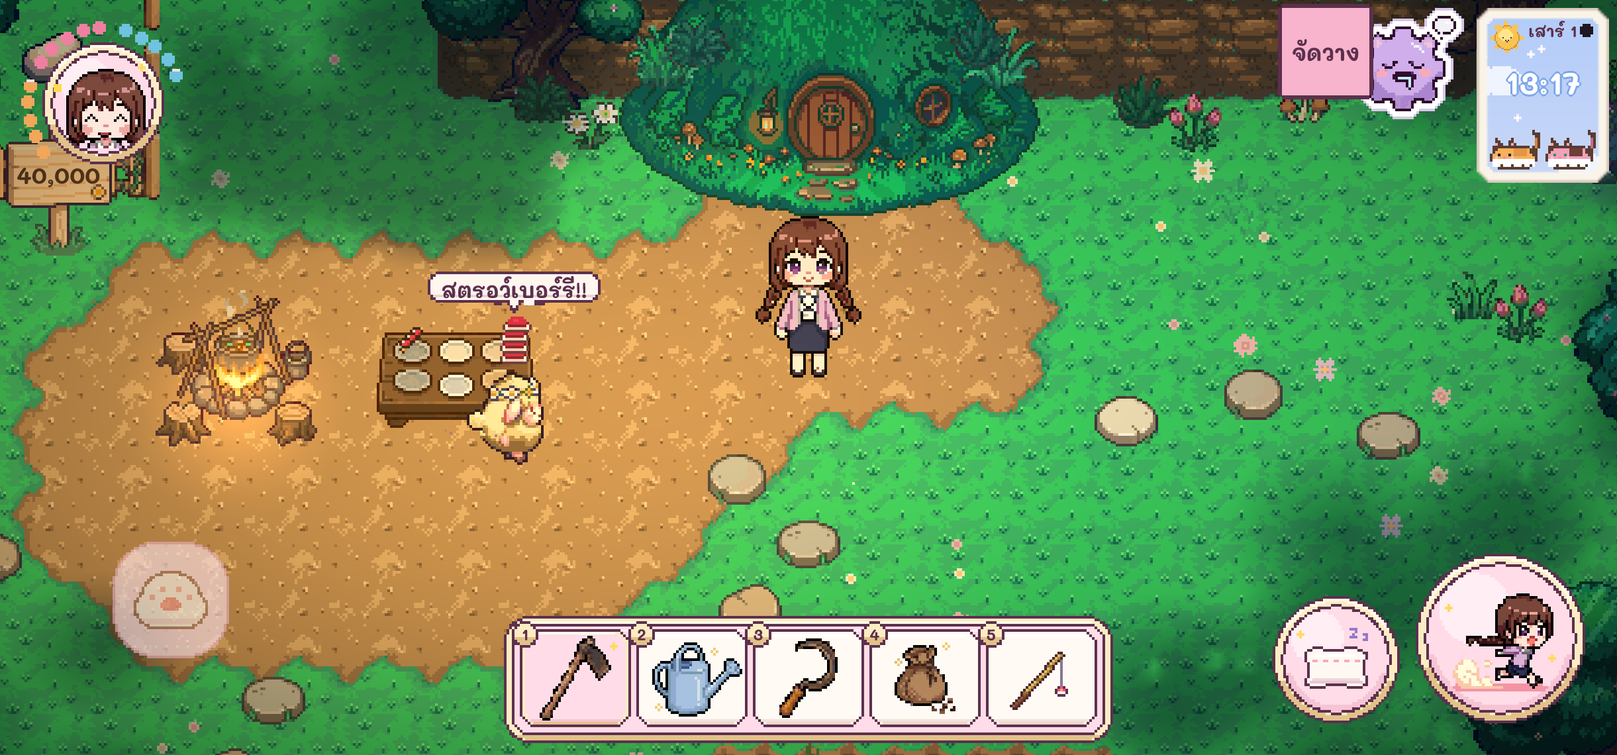
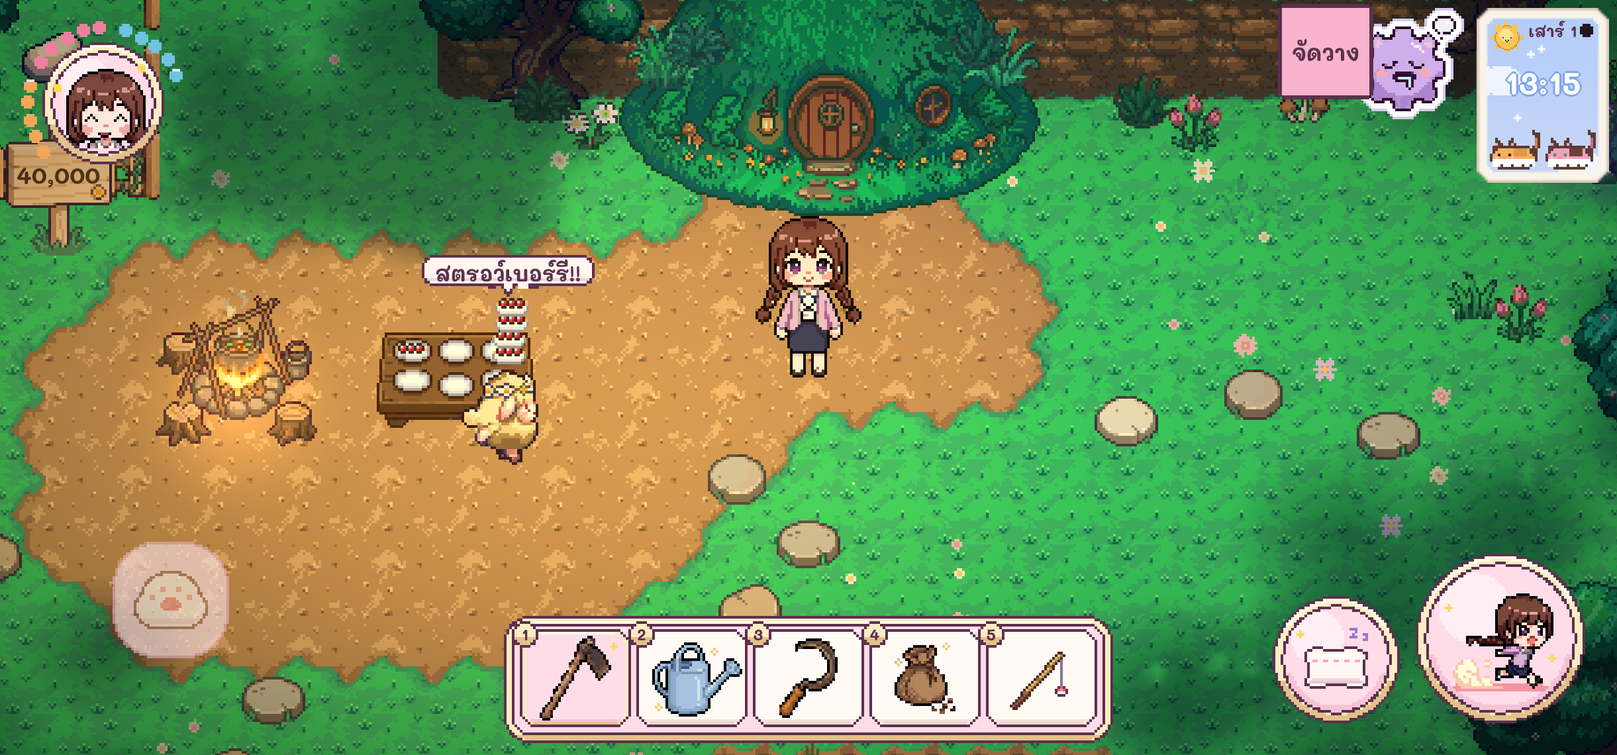
จาน D1 ขาวขอบเทาฟ้าทั้งถาดและหอคอย หอคอยใช้ภาพอาหารจิ๋วบนจาน D1 ยังโยกเบา ๆ ถังหูลู่จิ๋ววางนอน (ผู้ใช้เลือก)
- ถาดในฉากใช้ไฟล์ D1 ที่ลงสีหยกมาแล้ว ปิด jade_tone ไม่ลงซ้ำ
- หอคอย: ฐานอาหารสูงจากขอบล่างจาน 3 พิกเซล จานถัดไปซ้อนบนยอดอาหาร 1 พิกเซล ชั้นสูงตามภาพอาหาร
- ไอคอนถาดในร้านกับปุ่มวางอาหารเป็นจาน D1
- แทนการเปลี่ยนเป็นจานบางวาดด้วยโค้ด (bad78f2)

diff --git a/src/entities/Monster.ts b/src/entities/Monster.ts
@@ -3,18 +3,19 @@ import { footY } from '../core/assets';
 import { direction4From } from '../core/movement';
 import type { Rng } from '../core/rng';
 import balance from '../data/balance.json';
-import { eyeLevel, miniPlateKey, moteKey, prepareMonsterArt, sheetKey, DIRECTIONS, type Facing, type MonsterArt, type SheetKind } from '../scenes/monsterArt';
+import { artTopPx, eyeLevel, moteKey, prepareMonsterArt, sheetKey, DIRECTIONS, type Facing, type MonsterArt, type SheetKind } from '../scenes/monsterArt';
 
 type Point = { x: number; y: number };
 
 const ARRIVE_PX = 1.5;
 const FX_DEPTH_LIFT = 100;
 /**
- * หอคอยอาหารเหนือหัว: จานขาวบาง ๆ กับกองอาหารเล็ก ชั้นละ 4 พิกเซล โยกไปมา
- * ผู้ใช้เลือกแบบจานบางเดิม (6 พ.ย. 2026) แทนภาพอาหารจิ๋วที่ซ้อนแล้วดูแข็ง · ภาพอาหารจิ๋วใช้บนจานถาดเท่านั้น
+ * หอคอยอาหารเหนือหัว: จานขาวขอบเทาฟ้า D1 (`tower_plate` 13×6) กับภาพอาหารจิ๋ว โยกไปมาเบา ๆ (ผู้ใช้เลือก 6 พ.ย. 2026)
+ * ฐานอาหารสูงจากขอบล่างจาน 3 พิกเซล (อยู่ในขอบจาน) จานถัดไปวางบนยอดอาหารซ้อนกัน 1 พิกเซล ชั้นสูงตามภาพอาหารแต่ละชิ้น
  */
-const TOWER_STEP_PX = 4;
+const TOWER_PLATE = 'tower_plate';
 const TOWER_FOOD_LIFT = 3;
+const TOWER_OVERLAP_PX = 1;
 const TOWER_GAP_PX = 2;
 /** ฟองความคิด: มุมซ้ายของฟองห่างกลางตัวเท่านี้ จุดลากซ้ายล่างอยู่เหนือหัว ไอคอนอาหารกลางที่ (13, 13) ของฟอง */
 const THOUGHT_LEFT_PX = -3;
@@ -61,7 +62,8 @@ export class Monster {
   private level: number | 'sweet';
   private percent: number;
   private eatingNow = false;
-  private tower: { plate: Phaser.GameObjects.Image; food: Phaser.GameObjects.Image }[] = [];
+  /** `top` คือแถวโปร่งด้านบนของภาพอาหาร จานถัดไปจึงวางบนพิกเซลที่เห็นจริง */
+  private tower: { plate: Phaser.GameObjects.Image; food: Phaser.GameObjects.Image; top: number }[] = [];
   private fx: Phaser.GameObjects.GameObject[] = [];
   private shake: { step: number; ms: number } | null = null;
   /** ฟองความคิด "อยากกิน" (ฟองกับไอคอนอาหาร) ตามหัวไปจนหมดเวลา */
@@ -161,10 +163,11 @@ export class Monster {
 
   /** วางอาหารบนหอคอยเหนือหัว ชั้นละ 1 ที่ */
   addToTower(foodKey: string, count: number): void {
+    const top = artTopPx(this.scene, foodKey);
     for (let serving = 0; serving < count; serving += 1) {
-      const plate = this.scene.add.image(0, 0, miniPlateKey(this.scene)).setOrigin(0.5, 1);
-      const food = this.scene.add.image(0, 0, foodKey).setOrigin(0.5, 1);
-      this.tower.push({ plate, food });
+      const plate = this.scene.add.image(0, 0, TOWER_PLATE).setOrigin(0.5, 1).setName('tower_layer');
+      const food = this.scene.add.image(0, 0, foodKey).setOrigin(0.5, 1).setName('tower_layer');
+      this.tower.push({ plate, food, top });
     }
     this.sync(this.scene.time.now);
   }
@@ -363,13 +366,17 @@ export class Monster {
     const y = Math.round(this.position.y);
     this.sprite.setPosition(x, y).setDepth(y);
     const base = y - this.art.height - TOWER_GAP_PX;
+    let plateY = base;
+    let topY = base;
     this.tower.forEach((layer, index) => {
       const wobble = Math.max(-TOWER_WOBBLE_MAX, Math.min(TOWER_WOBBLE_MAX, Math.round(Math.sin(time / TOWER_WOBBLE_MS + index * 0.9) * index * 0.5)));
-      const plateY = base - index * TOWER_STEP_PX;
+      const foodY = plateY - TOWER_FOOD_LIFT;
       layer.plate.setPosition(x + wobble, plateY).setDepth(y + 1 + index * 0.01);
-      layer.food.setPosition(x + wobble, plateY - TOWER_FOOD_LIFT + 1).setDepth(y + 1.005 + index * 0.01);
+      layer.food.setPosition(x + wobble, foodY).setDepth(y + 1.005 + index * 0.01);
+      topY = Math.min(plateY - layer.plate.height, foodY - layer.food.height + layer.top);
+      plateY = foodY - layer.food.height + layer.top + TOWER_OVERLAP_PX;
     });
-    this.towerHeight = this.tower.length > 0 ? this.tower.length * TOWER_STEP_PX + TOWER_FOOD_LIFT : 0;
+    this.towerHeight = base - topY;
     this.syncThought(x, time);
   }
 

diff --git a/src/scenes/monsterArt.ts b/src/scenes/monsterArt.ts
@@ -12,7 +12,6 @@ const { eyeSteps } = balance.monsters;
 /** สีเนื้ออาหารจิ๋วบนจาน คิดจากสีที่สดที่สุดของไอคอนอาหาร (ข้ามพิกเซลสีขาวเทาของจานใบตอง) */
 const DULL_SPREAD = 40;
 const MOUND = { width: 9, height: 4 };
-const PLATE = { width: 11, height: 4 };
 
 const hex = (value: string): [number, number, number] => [1, 3, 5].map((at) => Number.parseInt(value.slice(at, at + 2), 16)) as [number, number, number];
 
@@ -129,8 +128,8 @@ const shade = (color: [number, number, number], amount: number): string =>
   `rgb(${color.map((channel) => Math.max(0, Math.min(255, Math.round(channel * amount)))).join(',')})`;
 
 /**
- * อาหารจิ๋ววาดด้วยโค้ด (ยังไม่มีภาพอาหารเล็กพอวางบนจานถาด) กองสีตามไอคอนอาหาร มีขอบเข้มและไฮไลต์
- * ใช้ทั้งบนจานถาดและหอคอยอาหารที่มอนสเตอร์ถือ
+ * อาหารจิ๋ววาดด้วยโค้ด กองสีตามไอคอนอาหาร มีขอบเข้มและไฮไลต์
+ * ใช้แทนเมนูที่ยังไม่มีภาพ tray_mini (ตอนนี้คือน้ำสตรอว์เบอร์รี) ทั้งบนจานถาดและหอคอย
  */
 export function foodMoundKey(scene: Phaser.Scene, recipe: string, icon: string | undefined): string {
   const key = `tray_food_${recipe}`;
@@ -165,25 +164,17 @@ export function foodArtKey(scene: Phaser.Scene, recipe: string, icon: string | u
   return scene.textures.exists(art) ? art : foodMoundKey(scene, recipe, icon);
 }
 
-/** จานขาวเล็กใต้อาหารแต่ละชั้นของหอคอย */
-export function miniPlateKey(scene: Phaser.Scene): string {
-  const key = 'tower_plate';
-  if (scene.textures.exists(key)) return key;
-  const canvas = document.createElement('canvas');
-  canvas.width = PLATE.width;
-  canvas.height = PLATE.height;
-  const context = canvas.getContext('2d')!;
-  context.fillStyle = '#5c304c';
-  context.fillRect(1, 0, 9, 1);
-  context.fillRect(0, 1, 1, 2);
-  context.fillRect(10, 1, 1, 2);
-  context.fillRect(1, 3, 9, 1);
-  context.fillStyle = '#fff6f0';
-  context.fillRect(1, 1, 9, 2);
-  context.fillStyle = '#d9c8d0';
-  context.fillRect(2, 2, 7, 1);
-  scene.textures.addCanvas(key, canvas);
-  return key;
+const topRows = new Map<string, number>();
+
+/** จำนวนแถวโปร่งด้านบนของภาพ (ภาพอาหารจิ๋วบางชิ้นเว้นแถวบนไว้ 1 แถว) ใช้วางจานชั้นถัดไปของหอคอยบนพิกเซลที่เห็นจริง */
+export function artTopPx(scene: Phaser.Scene, key: string): number {
+  const known = topRows.get(key);
+  if (known !== undefined) return known;
+  const { data, width, height } = pixels(scene, key);
+  let top = 0;
+  while (top < height - 1 && !Array.from({ length: width }, (_, x) => data[(top * width + x) * 4 + 3]!).some((alpha) => alpha > 0)) top += 1;
+  topRows.set(key, top);
+  return top;
 }
 
 /** ละอองหิวสีม่วงหม่น 1×1 กับ 2×2 พิกเซล ลอยขึ้นรอบตัวตอนยังหิว จางลงเมื่อชอบมากขึ้น */

diff --git a/src/scenes/visits.ts b/src/scenes/visits.ts
@@ -26,7 +26,7 @@ import {
   type Reaction,
 } from '../systems/monsters';
 import { servingsOnTray } from '../systems/tray';
-import { foodMoundKey, type MonsterArt } from './monsterArt';
+import { foodArtKey, type MonsterArt } from './monsterArt';
 import type { TrayView } from './trayView';
 
 type Point = { x: number; y: number };
@@ -331,8 +331,8 @@ export class Visits {
       gameState.setWorld(result.world);
       if (result.taken === 0) continue;
       const recipe = parseDish(take.item).recipe;
-      // หอคอยใช้กองอาหารเล็กบนจานบางแบบเดิม (ผู้ใช้เลือก 6 พ.ย. 2026) ภาพอาหารจิ๋วใช้บนจานถาด
-      monster.addToTower(foodMoundKey(this.scene, recipe, recipes[recipe]?.icon), result.taken);
+      // หอคอยใช้ภาพอาหารจิ๋ววางบนจาน D1 (ผู้ใช้เลือก 6 พ.ย. 2026 14:18)
+      monster.addToTower(foodArtKey(this.scene, recipe, recipes[recipe]?.icon), result.taken);
       monster.hearts(take.reaction === 'neutral' ? 0 : 1);
       if (take.reaction === 'favourite' || take.reaction === 'signature') monster.sparkles();
       if (take.reaction === 'favourite') this.say(run, 'favourite', true);

diff --git a/tests/unit/data.test.ts b/tests/unit/data.test.ts
@@ -24,11 +24,16 @@ describe('project data', () => {
       readFileSync(join(projectRoot, 'assets-src/art_2026-11-01/registry_additions.json'), 'utf8'),
     ) as { name: string; file: string; jade_tone: boolean; currency?: string }[];
     expect(additions).toHaveLength(250);
+    // ถาดจาน D1 แทนถาดชุด 1 พ.ย. (ผู้ใช้เลือก 6 พ.ย. 2026) ลงสีหยกมาแล้วในไฟล์
+    const replaced: Record<string, { file: string; jade_tone: boolean }> = Object.fromEntries(
+      [3, 6, 10].map((size) => [`food_tray_${size}`, { file: `assets-src/art_2026-11-06/yard/food_tray_${size}_d1.png`, jade_tone: false }]),
+    );
     for (const addition of additions) {
       const entry = registry[addition.name];
       if (entry?.type !== 'local' && entry?.type !== 'local_tileset') throw new Error(`${addition.name} is missing`);
-      expect(entry.source).toBe(addition.file);
-      expect(entry.jade_tone).toBe(addition.jade_tone);
+      const expected = replaced[addition.name] ?? addition;
+      expect(entry.source).toBe(expected.file);
+      expect(entry.jade_tone).toBe(expected.jade_tone);
       if (entry.type === 'local') expect(entry.currency).toBe(addition.currency);
     }
   });

diff --git a/tests/e2e/m7.spec.ts b/tests/e2e/m7.spec.ts
@@ -102,6 +102,13 @@ test('Puinun (warm, 50%) comes out of the burrow, takes a favourite tower, eats 
   await shot(page, '03_puinun_out');
   // หยิบเมนูโปรดเป็นหอคอย 3–5 ที่ ไม่แตะปลาย่าง (ไม่ชอบ) รวมไม่เกิน 5 ที่
   await expect.poll(async () => (await world(page)).tray.plates[1]?.count ?? 0, { timeout: 60_000 }).toBeLessThan(6);
+  // หอคอยเหนือหัวใช้จาน D1 กับภาพถังหูลู่จิ๋ว (ผู้ใช้เลือก 6 พ.ย. 2026 14:18)
+  const towerKeys = await page.evaluate(() =>
+    ((window as unknown as Win).__game.scene.getScene('Base') as { children: { list: { name: string; texture?: { key: string } }[] } }).children.list
+      .filter((child) => child.name === 'tower_layer')
+      .map((child) => child.texture?.key),
+  );
+  expect(new Set(towerKeys)).toEqual(new Set(['tower_plate', 'tray_mini_strawberry_skewer']));
   await expect.poll(async () => (await world(page)).monsters.arrivals[0]?.done).toBe(true);
   await page.waitForTimeout(2500);
   await shot(page, '04_tower');

diff --git a/art-src/m7a_ui_1106/plates_d1/scripts/trayplates.py b/art-src/m7a_ui_1106/plates_d1/scripts/trayplates.py
@@ -1,0 +1,68 @@
+"""Plates on the world food trays -> uniform D1 blue-grey plates (her pick). 0 credits."""
+from PIL import Image
+import os
+D=os.path.dirname(os.path.abspath(__file__))
+def lum(p): return 0.299*p[0]+0.587*p[1]+0.114*p[2]
+def is_plate(p):
+    r,g,b=p[:3]; return p[3] and max(r,g,b)-min(r,g,b)<62 and lum(p)>118
+def comps(im):
+    px=im.load(); S={(x,y) for y in range(im.height) for x in range(im.width) if is_plate(px[x,y])}; out=[]
+    while S:
+        p=S.pop(); st=[p]; c={p}
+        while st:
+            x,y=st.pop()
+            for q in ((x+1,y),(x-1,y),(x,y+1),(x,y-1)):
+                if q in S: S.remove(q); st.append(q); c.add(q)
+        if len(c)>=20: out.append(c)
+    return out
+EDGE=(150,160,190); RIM=(214,222,236); TOP=(255,255,255); SH=(236,240,248)
+def flood(im,seed):
+    px=im.load(); c=set(); st=[seed]
+    while st:
+        x,y=st.pop()
+        if (x,y) in c or not(0<=x<im.width and 0<=y<im.height): continue
+        p=px[x,y]
+        if not p[3] or lum(p)<110: continue
+        c.add((x,y)); st+= [(x+1,y),(x-1,y),(x,y+1),(x,y-1)]
+        if len(c)>200: return None
+    # fill single-pixel holes (dark specks) row by row
+    rows={}
+    for x,y in c: rows.setdefault(y,[]).append(x)
+    for y,xs in rows.items():
+        for x in range(min(xs),max(xs)+1): c.add((x,y))
+    return c
+def plates(im):
+    cs=comps(im); seeds=[(round(sum(x for x,y in c)/len(c)),round(sum(y for x,y in c)/len(c))) for c in cs]
+    if im.size==(60,36):   # 6-slot tray: the tan bottom-right plate is too saturated for the colour test
+        xs=sorted({sx for sx,sy in seeds}); ys=sorted({sy for sx,sy in seeds})
+        tr=max(seeds,key=lambda s:(s[0],-s[1])); bm=max(seeds,key=lambda s:(s[1],-abs(s[0]-30)))
+        seeds.append((tr[0],bm[1]))
+    out=[]
+    for i,sd in enumerate(seeds):
+        f=flood(im,sd)
+        if f is None and i<len(cs):           # light tray (3-slot): flood leaks, keep the colour-test plate + fill specks
+            f=set(cs[i]); rows={}
+            for x,y in f: rows.setdefault(y,[]).append(x)
+            for y,xs in rows.items():
+                for x in range(min(xs),max(xs)+1): f.add((x,y))
+        if f and all(len(f & o)==0 for o in out): out.append(f)
+    return out
+def recolor(im):
+    im=im.copy(); px=im.load()
+    for c in plates(im):
+        ys=[y for x,y in c]; cy=(min(ys)+max(ys))/2
+        def depth(x,y):
+            d=0
+            while all((x+dx,y+dy) in c for dx in range(-d-1,d+2) for dy in range(-d-1,d+2) if abs(dx)==d+1 or abs(dy)==d+1): d+=1
+            return d
+        for (x,y) in c:
+            d=0 if any(q not in c for q in ((x+1,y),(x-1,y),(x,y+1),(x,y-1))) else (1 if any(q not in c for q in ((x+2,y),(x-2,y),(x,y+2),(x,y-2))) else 2)
+            col=EDGE if d==0 else RIM if d==1 else (SH if y>cy+0.5 else TOP)
+            px[x,y]=col+(255,)
+    return im
+if __name__=='__main__':
+    os.makedirs(f'{D}/trays_d1',exist_ok=True)
+    for n in (3,6,10):
+        src=Image.open(f'{D}/src/public/assets/world/yard/food_tray_{n}.png').convert('RGBA')
+        print(n,[len(c) for c in comps(src)])
+        recolor(src).save(f'{D}/trays_d1/food_tray_{n}.png')

diff --git a/art-src/m7a_ui_1106/plates_d1/scripts/tower6.py b/art-src/m7a_ui_1106/plates_d1/scripts/tower6.py
@@ -1,0 +1,34 @@
+"""Plates like her Kairosoft ref: wide round plate seen at an angle, food sits inside the rim. 0 credits."""
+from PIL import Image, ImageDraw, ImageFont
+import os, sys
+sys.path.insert(0,os.path.dirname(os.path.abspath(__file__)))
+from tower2 import grid, pu, D
+SHAPE=["...bbbbbbb...",".bbWWWWWWWbb.","bWWWWWWWWWWWb",".bssWWWWWssb.","..bbsssssbb..","....bbbbb...."]
+SHAPE=["..bbbbbbbbb..",".bWWWWWWWWWb.","bWWWWWWWWWWWb","bsWWWWWWWWWsb",".bsssssssssb.","..bbbbbbbbb.."]
+def plate(edge, shade=(214,222,236), top=(255,255,255)):
+    return grid(SHAPE,{'b':edge,'W':top,'s':shade})
+def tower(pl, food, n, sway=False, sink=3):
+    W,H=26,90; im=Image.new('RGBA',(W,H)); y=H
+    for i in range(n):
+        dx=(0,1,0,-1)[i%4] if sway else 0; cx=W//2+dx
+        im.alpha_composite(pl,(cx-pl.width//2,y-pl.height))
+        base=y-pl.height+sink+1          # food bottom rests inside the rim
+        im.alpha_composite(food,(cx-food.width//2,base-food.height))
+        y=min(base-food.height+2, y-pl.height+1)   # next plate sits on the food top
+    return im
+V={'D1 แบบในรูป (ขอบเทาฟ้า)':plate((132,142,176)),
+   'D2 ทรงเดียวกัน ขอบน้ำตาลเข้ม':plate((96,58,40),(236,214,196),(255,250,244)),
+   'D3 ขอบน้ำตาลกลาง':plate((140,92,60),(236,214,196),(255,250,244))}
+foods=[Image.open(f'{D}/tang_flat4.png'),Image.open(f'{D}/mini9_final/home_kaprao.png'),Image.open(f'{D}/mini9_final/caramel_pudding.png')]
+sc=Image.new('RGBA',(len(V)*150,112),(214,170,110,255))
+for i,(lab,pl) in enumerate(V.items()):
+    pl.save(f'{D}/tower_plate_{lab[:2]}.png')
+    for j,f in enumerate(foods):
+        x0=i*150+j*48; sc.alpha_composite(pu,(x0+3,70)); t=tower(pl,f,4); sc.alpha_composite(t,(x0+10,70-90+8))
+K=3; big=sc.resize((sc.width*K,sc.height*K),Image.NEAREST)
+F=ImageFont.truetype('/mnt/user-data/uploads/help-tower-game/public/assets/fonts/Mali-Bold.ttf',20)
+out=Image.new('RGBA',(big.width,big.height+110),(255,238,244,255)); d=ImageDraw.Draw(out)
+for i,l in enumerate(V): d.text((i*150*K+8,8),l,font=F,fill=(92,48,76))
+out.alpha_composite(big,(0,40))
+for i,(l,pl) in enumerate(V.items()): out.alpha_composite(pl.resize((pl.width*8,pl.height*8),Image.NEAREST),(i*150*K+150,big.height+50))
+out.convert('RGB').save(f'{D}/tower_ref_plates.png')

diff --git a/art-src/m7a_ui_1106/plates_d1/scripts/tang2.py b/art-src/m7a_ui_1106/plates_d1/scripts/tang2.py
@@ -1,0 +1,37 @@
+"""Tanghulu lying flat on the plate (stacks nicely in the tower). 0 credits."""
+from PIL import Image, ImageDraw, ImageFont
+import os, sys
+sys.path.insert(0,os.path.dirname(os.path.abspath(__file__)))
+from tower2 import tower, pu, D
+from tower3 import V
+O=(46,28,24); R=(220,56,76); r=(168,30,58); H=(255,214,214); S=(222,176,112)
+def flat(n=3, size=4):
+    BALL=[".OO.","OHRO","ORrO",".OO."] if size==4 else [".OOO.","OHRRO","ORRrO","OrrrO",".OOO."]
+    bw=len(BALL[0]); step=bw-1; w=step*n+1+2; h=len(BALL)
+    im=Image.new('RGBA',(w,h)); px=im.load()
+    my=h//2
+    px[0,my]=S+(255,); px[w-1,my]=S+(255,)
+    for i in range(n):
+        bx=1+i*step
+        for yy,row in enumerate(BALL):
+            for xx,c in enumerate(row):
+                if c!='.': px[bx+xx,yy]={'O':O,'H':H,'R':R,'r':r}[c]+(255,)
+    return im
+F1=flat(3,4); F2=flat(3,5)
+F1.save(f'{D}/tang_flat4.png'); F2.save(f'{D}/tang_flat5.png')
+A=Image.open(f'{D}/tang_A.png')
+t6=Image.open(f'{D}/src/public/assets/world/yard/food_tray_6.png').convert('RGBA')
+plate=V['A2 ขอบชัดขึ้นนิด'][0]
+dirt=(214,170,110)
+sc=Image.new('RGBA',(3*110,100),dirt+(255,))
+for i,m in enumerate([A,F1,F2]):
+    x0=i*110
+    t=Image.new('RGBA',(66,44)); t.alpha_composite(t6,(3,4))
+    for (cx,cy) in [(13,6),(30,6),(46,6),(13,18),(30,18),(46,18)]: t.alpha_composite(m,(3+cx-m.width//2,4+cy+2-m.height))
+    sc.alpha_composite(t,(x0,52))
+    sc.alpha_composite(pu,(x0+64,58)); tw=tower(plate,m,4,True); sc.alpha_composite(tw,(x0+72,58-70+8))
+K=3; big=sc.resize((sc.width*K,sc.height*K),Image.NEAREST)
+Fnt=ImageFont.truetype('/mnt/user-data/uploads/help-tower-game/public/assets/fonts/Mali-Bold.ttf',20)
+out=Image.new('RGBA',(big.width,big.height+44),(255,238,244,255)); d=ImageDraw.Draw(out)
+for i,l in enumerate(['เดิม A (เฉียง)','ใหม่ วางนอน ลูกเล็ก','ใหม่ วางนอน ลูกใหญ่']): d.text((i*110*K+8,8),l,font=Fnt,fill=(92,48,76))
+out.alpha_composite(big,(0,40)); out.convert('RGB').save(f'{D}/tang_flat_compare.png'); print(F1.size,F2.size)

diff --git a/art-src/m7a_ui_1106/plates_d1/scripts/tower8.py b/art-src/m7a_ui_1106/plates_d1/scripts/tower8.py
@@ -1,0 +1,27 @@
+from PIL import Image, ImageDraw, ImageFont
+import os, sys, json
+sys.path.insert(0,os.path.dirname(os.path.abspath(__file__)))
+from tower6 import tower, plate, D
+from tower2 import pu
+V={'D1 เทาฟ้า (แบบในรูป)':plate((132,142,176)),
+   'E1 ม่วงพลัมอ่อน (สีเส้นของเกมเรา)':plate((150,108,140),(236,222,232),(255,250,252)),
+   'E2 ขอบชมพู (สี UI เกมเรา)':plate((220,124,156),(250,218,228),(255,250,250)),
+   'E3 พลัมอ่อน + ขอบชมพูด้านใน':None}
+# E3: plum outline + pink inner rim line
+from tower2 import grid
+V['E3 พลัมอ่อน + ขอบชมพูด้านใน']=grid(["..bbbbbbbbb..",".bpWWWWWWWpb.","bpWWWWWWWWWpb","bsWWWWWWWWWsb",".bsssssssssb.","..bbbbbbbbb.."],{'b':(150,108,140),'p':(246,176,200),'W':(255,250,252),'s':(236,222,232)})
+keys=['strawberry_skewer','home_kaprao','caramel_pudding','choco_donut','honey_macaron','basil_tea','grilled_fish','strawberry_parfait']
+F=ImageFont.truetype('/mnt/user-data/uploads/help-tower-game/public/assets/fonts/Mali-Bold.ttf',20)
+K=3; blocks=[]
+for lab,pl in V.items():
+    pl.save(f'{D}/tower_plate_{lab[:2]}.png')
+    sc=Image.new('RGBA',(len(keys)*26+50,64),(214,170,110,255))
+    sc.alpha_composite(pu,(2,22))
+    for n,k in enumerate(keys):
+        f=Image.open(f'{D}/tang_flat4.png') if k=='strawberry_skewer' else Image.open(f'{D}/mini9_final/{k}.png')
+        t=tower(pl,f,3); t=t.crop(t.getbbox()); sc.alpha_composite(t,(50+n*26+13-t.width//2,60-t.height))
+    big=sc.resize((sc.width*K,sc.height*K),Image.NEAREST)
+    b=Image.new('RGBA',(big.width,big.height+34),(255,238,244,255)); ImageDraw.Draw(b).text((8,4),lab,font=F,fill=(92,48,76)); b.alpha_composite(big,(0,32)); blocks.append(b)
+out=Image.new('RGB',(blocks[0].width,sum(b.height for b in blocks)),(255,238,244)); y=0
+for b in blocks: out.paste(b,(0,y),b); y+=b.height
+out.save(f'{D}/tower_own_colours.png')

diff --git a/art-src/m7a_ui_1106/plates_d1/scripts/tower9.py b/art-src/m7a_ui_1106/plates_d1/scripts/tower9.py
@@ -1,0 +1,26 @@
+from PIL import Image, ImageDraw, ImageFont
+import os, sys, json
+sys.path.insert(0,os.path.dirname(os.path.abspath(__file__)))
+from tower6 import tower, plate, D
+from tower2 import pu
+V={'D1 เทาฟ้า':plate((132,142,176))}
+# E3: plum outline + pink inner rim line
+from tower2 import grid
+V['F1 เทาฟ้า + ขอบชมพูด้านใน']=grid(["..bbbbbbbbb..",".bpWWWWWWWpb.","bpWWWWWWWWWpb","bsWWWWWWWWWsb",".bsssssssssb.","..bbbbbbbbb.."],{'b':(132,142,176),'p':(246,184,206),'W':(255,255,255),'s':(214,222,236)})
+V['F2 ฟ้าพาสเทล (ฟ้าขึ้น เทาน้อยลง)']=plate((120,150,200),(206,224,244),(255,255,255))
+V['F3 ฟ้ามิ้นต์']=plate((110,160,170),(206,232,232),(255,255,255))
+keys=['strawberry_skewer','home_kaprao','caramel_pudding','choco_donut','honey_macaron','basil_tea','grilled_fish','strawberry_parfait']
+F=ImageFont.truetype('/mnt/user-data/uploads/help-tower-game/public/assets/fonts/Mali-Bold.ttf',20)
+K=3; blocks=[]
+for lab,pl in V.items():
+    pl.save(f'{D}/tower_plate_{lab[:2]}.png')
+    sc=Image.new('RGBA',(len(keys)*26+50,64),(214,170,110,255))
+    sc.alpha_composite(pu,(2,22))
+    for n,k in enumerate(keys):
+        f=Image.open(f'{D}/tang_flat4.png') if k=='strawberry_skewer' else Image.open(f'{D}/mini9_final/{k}.png')
+        t=tower(pl,f,3); t=t.crop(t.getbbox()); sc.alpha_composite(t,(50+n*26+13-t.width//2,60-t.height))
+    big=sc.resize((sc.width*K,sc.height*K),Image.NEAREST)
+    b=Image.new('RGBA',(big.width,big.height+34),(255,238,244,255)); ImageDraw.Draw(b).text((8,4),lab,font=F,fill=(92,48,76)); b.alpha_composite(big,(0,32)); blocks.append(b)
+out=Image.new('RGB',(blocks[0].width,sum(b.height for b in blocks)),(255,238,244)); y=0
+for b in blocks: out.paste(b,(0,y),b); y+=b.height
+out.save(f'{D}/tower_blue_variants.png')

diff --git a/art-src/m7a_ui_1106/plates_d1/scripts/tower7.py b/art-src/m7a_ui_1106/plates_d1/scripts/tower7.py
@@ -1,0 +1,19 @@
+from PIL import Image, ImageDraw, ImageFont
+import os, sys, json
+sys.path.insert(0,os.path.dirname(os.path.abspath(__file__)))
+from tower6 import tower, V, D
+M=json.load(open(f'{D}/src/art-src/_icons_map_1106.json'))
+keys=list(M)
+F=ImageFont.truetype('/mnt/user-data/uploads/help-tower-game/public/assets/fonts/Mali-Bold.ttf',20)
+K=3
+for vi,(lab,pl) in enumerate(V.items()):
+    cols=16; rows=2
+    sc=Image.new('RGBA',(cols*28,rows*52),(214,170,110,255))
+    for n,k in enumerate(keys):
+        f=Image.open(f'{D}/mini9_final/{k}.png'); t=tower(pl,f,3)
+        t=t.crop(t.getbbox()); x=(n%cols)*28+14-t.width//2; y=(n//cols)*52+50-t.height
+        sc.alpha_composite(t,(x,y))
+    big=sc.resize((sc.width*K,sc.height*K),Image.NEAREST)
+    out=Image.new('RGBA',(big.width,big.height+40),(255,238,244,255)); d=ImageDraw.Draw(out)
+    d.text((8,6),f'{lab} · ทุกเมนู ซ้อน 3 จาน',font=F,fill=(92,48,76)); out.alpha_composite(big,(0,36))
+    out.convert('RGB').save(f'{D}/tower_all_{lab[:2]}.png')
